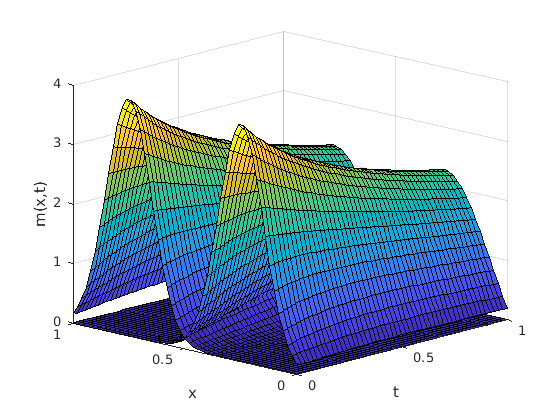
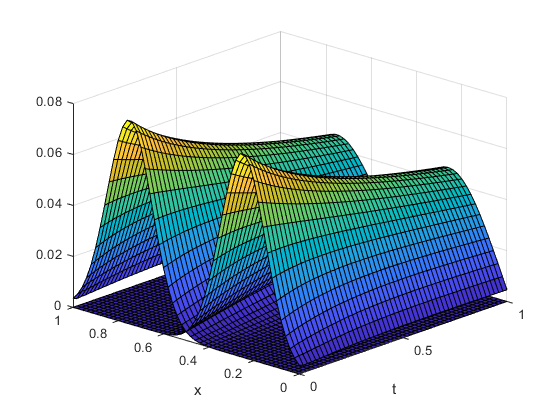
Normalize initial mean field
Also tried to increase efficiency by removing some arrayfun in a couple places

diff --git a/opinion_MPMFG.m b/opinion_MPMFG.m
@@ -48,6 +48,10 @@ base_u = zeros(P, L+1, M+1);
 % Initial value of mean field is done below, before running the algorithm.
 % Helper function is used to specify the initial distribution, also below.
 
+% NOTE: I want to keep the same indices as the paper, so I have helper
+% functions for accessing the matrices. These also prevent any
+% out-of-bounds errors.
+
 %  --------------------------------------
 %% 2) Social network parameters/constants
 %  --------------------------------------
@@ -83,7 +87,11 @@ for p = 1:1:P % inclusive range
     for j = 0:1:L
         base_m(p,(j)+1,(0)+1) = m_0(p,j); % emphasize that indices are off by 1 on base matrices
     end
+    % normalize the mean field:
+    initial_sum = sum(base_m(p, :, 1));
+    base_m(p, :, 1) = base_m(p, :, 1)./initial_sum;
 end
+
 base_u(:) = 0.01;
 % Value function stays initialized as zero
 
@@ -93,7 +101,7 @@ for it = 1:1:max_iterations
     for p = 1:1:P
         for j=0:1:L
             for k=0:1:M-1
-                 % emphasize that indices are off by 1 on base matrices
+                % emphasize that indices are off by 1 on base matrices
                 base_m(p, (j)+1, (k+1)+1) = update_m(p, j, k);
             end
         end
@@ -102,6 +110,7 @@ for it = 1:1:max_iterations
     for p = 1:1:P
         for j=0:1:L
             for k=M:-1:2
+                % emphasize that indices are off by 1 on base matrices
                 base_v(p, (j)+1, (k-1)+1) = update_v(p, j, k);
             end
         end
@@ -112,6 +121,7 @@ for it = 1:1:max_iterations
         for j=0:1:L
             for k=0:1:M
                 [new_u, gradient] = update_u(p, j, k);
+                % emphasize that indices are off by 1 on base matrices
                 base_u(p, (j)+1, (k)+1) = new_u;
                 error = abs(gradient);
                 error_good = error_good && (error <= min_error);
@@ -193,12 +203,12 @@ end
 
 % Average population opinion at t_k, according to mean field distribution
 function retval = avg_x(p, k)
-    global avg_x0 L;
+    global avg_x0 L dx base_m;
     if 0 == k
         retval = avg_x0(p);
     else
-        opinions_arr = arrayfun(@(j) x(j), 0:1:L);
-        mean_field_arr = arrayfun(@(j) m(p, j, k), 0:1:L);
+        opinions_arr = (0:1:L).*dx; % arrayfun(@(j) x(j), 0:1:L);
+        mean_field_arr = reshape(base_m(p, :, (k)+1), size(opinions_arr)); % arrayfun(@(j) m(p, j, k), 0:1:L);
         retval = sum(opinions_arr.*mean_field_arr);
     end
 end
@@ -216,9 +226,9 @@ end
 
 % Running cost function
 function retval = r(p, j, k)
-    global c1 c2 c3 c4 P lambda desired_x avg_x0;
+    global c1 c2 c3 c4 P lambda desired_x avg_x0 base_m;
     term1 = c1*(u(p,j,k))^2;
-    mean_field_arr = arrayfun(@(l) m(l, j, k), 1:1:P);
+    mean_field_arr = base_m(:, (j)+1, (k)+1); % arrayfun(@(l) m(l, j, k), 1:1:P);
     term2 = sum(mean_field_arr.*c2);
     term3 = c3*lambda(p)*abs(x(j) - desired_x(p));
     term4 = c4*(1-lambda(p))*abs(x(j) - avg_x0(p));
@@ -240,12 +250,14 @@ end
 
 % equation 48
 function new_v = update_v(p, j, k)
-    global sigma P dx dt lambda N avg_adj c2;
+    global sigma P dx dt lambda N avg_adj c2 base_v base_m;
 
     eps = (sigma(p)^2)/2;
     
     value_arr = arrayfun(@(l) (v(l, j-1, k)-v(l, j+1, k))/(2*dx), 1:1:P);
-    mean_field_arr = arrayfun(@(l) m(l, j, k), 1:1:P);
+    % causes index error: (base_v(:, (j-1)+1, (k)+1) - base_v(:, (j+1)+1, (k)+1))./(2*dx);
+    mean_field_arr = reshape(base_m(:, (j)+1, (k)+1), size(value_arr));
+    % arrayfun(@(l) m(l, j, k), 1:1:P);
     summation = sum(mean_field_arr.*value_arr);
     
     new_v = 0.5*(v(p, j-1, k)+v(p, j+1, k))+dt*(...
